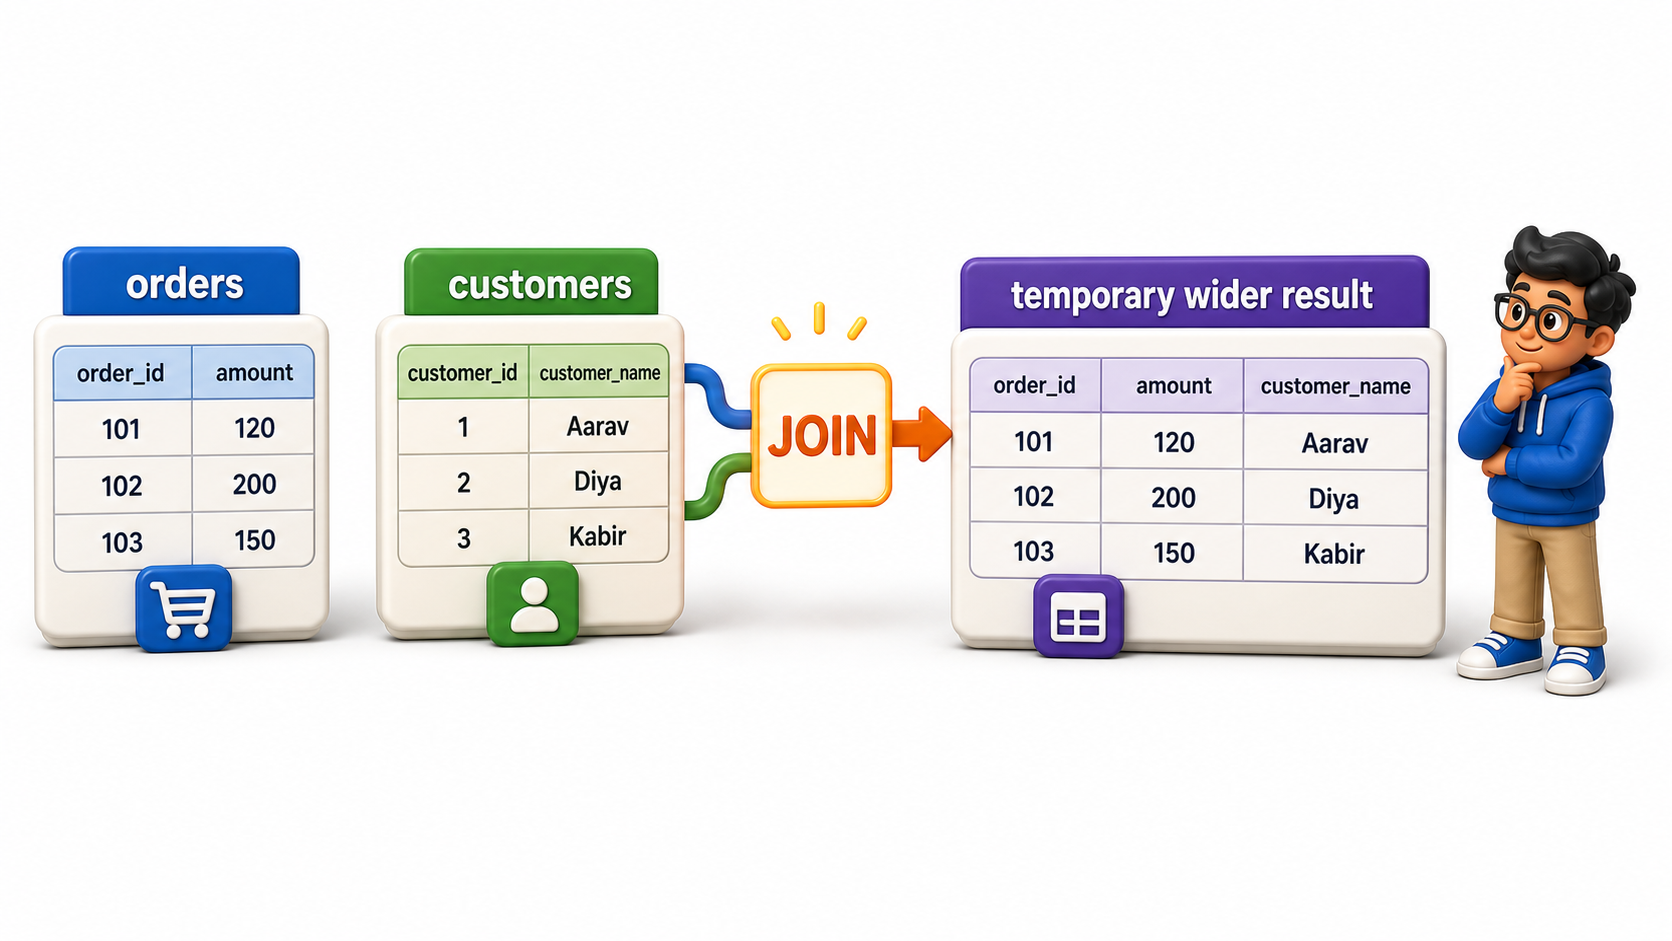
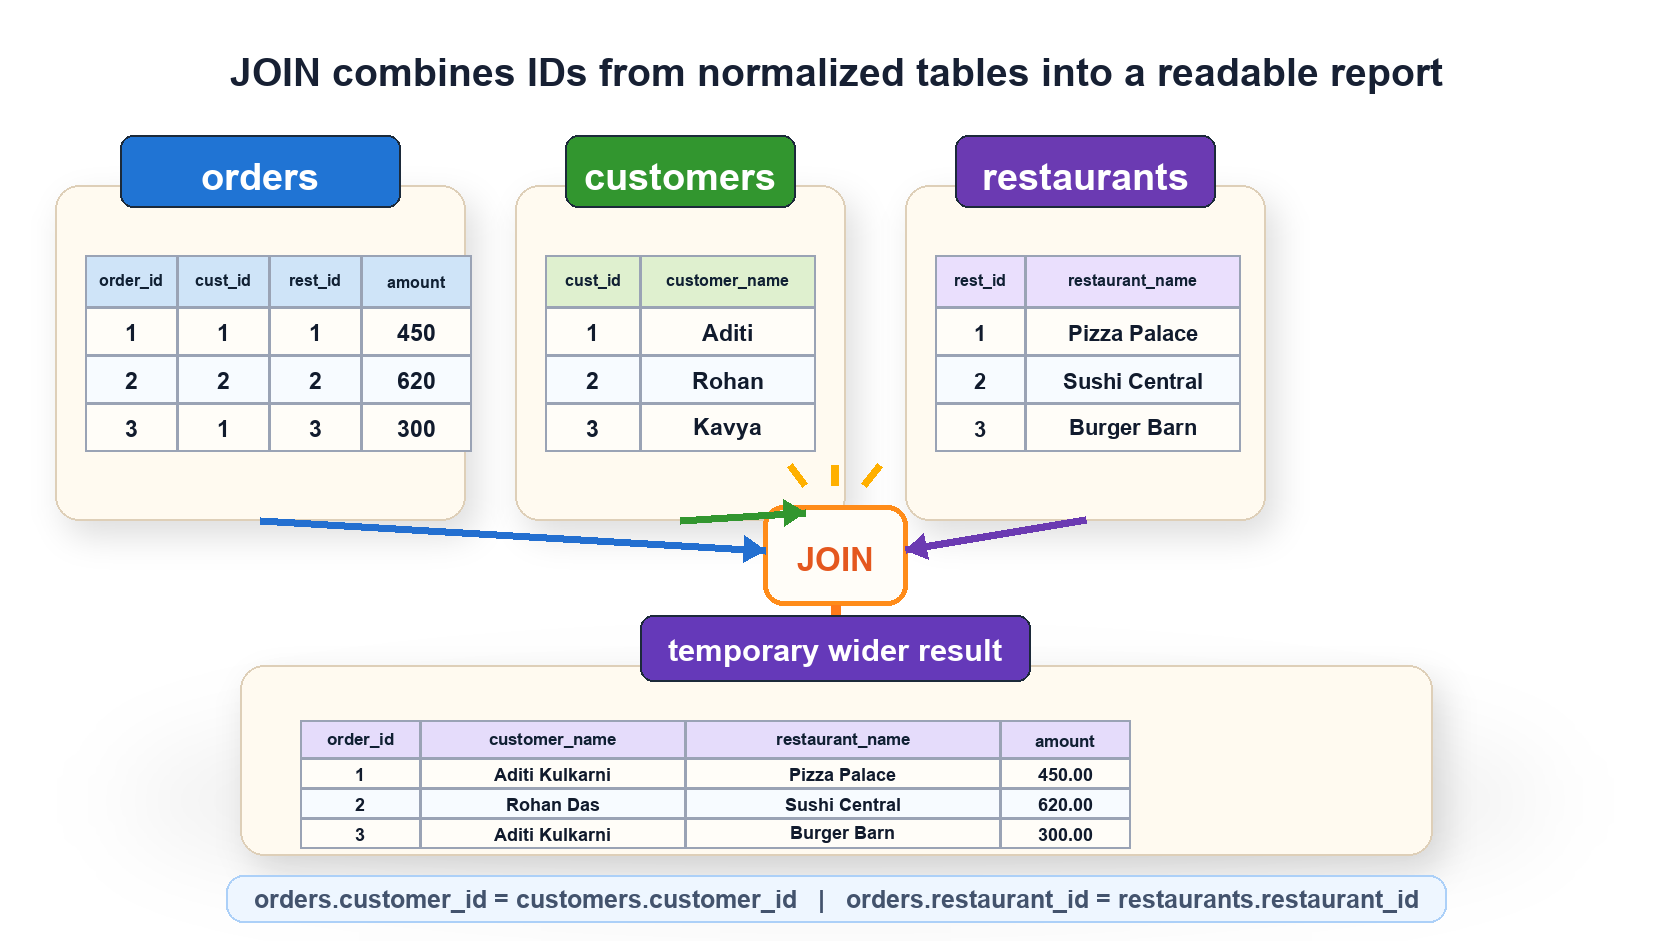
Fix DBMS join visuals

diff --git a/content/DBMS/4 - SQL for Data Retrieval and Analytics/4.3 - Joins/01_why_joins_exist.md b/content/DBMS/4 - SQL for Data Retrieval and Analytics/4.3 - Joins/01_why_joins_exist.md
@@ -165,7 +165,7 @@ JOIN customers ON orders.customer_id = customers.customer_id;
 
 2. It produces one combined `row` carrying `columns` from both `tables`, which is how `customer_name`, a `column` that does not exist on `orders` at all, ends up in this result.
 
-![A join using matching ids to bring customer and restaurant names into an order report](images/01_join_lookup_ids_to_names.png)
+![A join using matching customer_id values to bring the customer name into an order report](images/01_join_lookup_ids_to_names.png)
 
 ## What a Join Actually Produces
 
